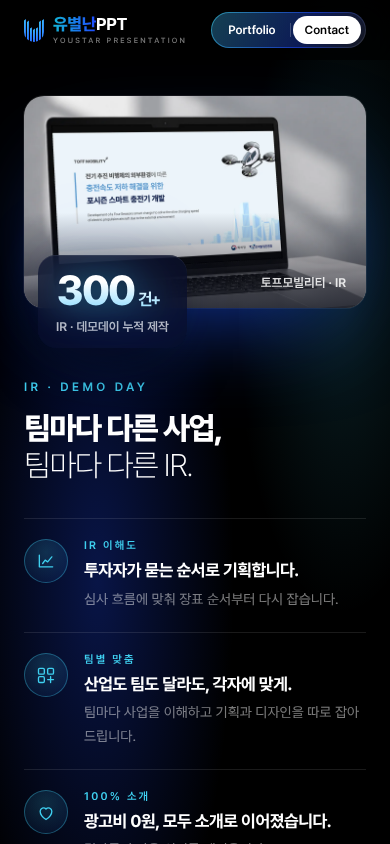
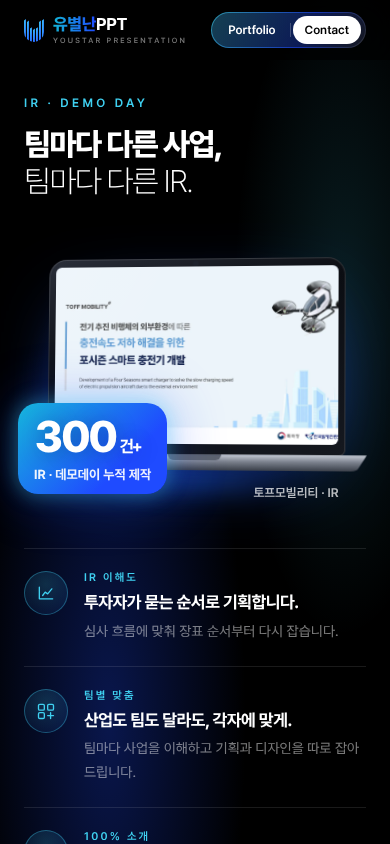
v2 IR: heading top-left, frameless CSS laptop with IR slides, bold gradient 300+ badge
- 제목을 왼쪽 위로, 세 줄은 오른쪽에서 노트북 높이에 맞춰 세로 가운데
- 배경 있는 노트북 사진 대신 코드로 만든 배경 없는 노트북: 살짝 기울어진 채 떠 있고, 마우스 올리면 정면으로, 화면 속 IR 5종이 바뀜
- 300건+ 배지: 청록→파랑 채움 + 흰 숫자 + 숨 쉬는 네온, 노트북 왼쪽 아래

Claude-Session: https://claude.ai/code/session_01NURhbB6Mq8R8WnaczfYj5a

diff --git a/redesign/v2/index.html b/redesign/v2/index.html
@@ -188,25 +188,36 @@ a{color:inherit;text-decoration:none}
 @keyframes statsbeam{50%{--bx:70%}}
 @media (prefers-reduced-motion:reduce){.neon-btn,.neon-txt,.stats::before{animation:none}}
 
-/* 다섯 번째: IR · 데모데이 — 왼쪽 노트북 목업(장표가 바뀜) + 300건+ 배지, 오른쪽 짧은 세 줄, 아래 이력 띠 */
+/* 다섯 번째: IR · 데모데이 — 왼쪽 제목 + 배경 없는 노트북(장표가 바뀜) + 300건+ 배지, 오른쪽 세 줄, 아래 이력 띠 */
 .irx{position:relative;padding:140px 0 120px;isolation:isolate;overflow-x:clip}
-.irx::before{content:"";position:absolute;inset:0;z-index:-1;background:radial-gradient(ellipse 50% 55% at 25% 50%,rgba(31,75,255,.28),transparent 70%),radial-gradient(ellipse 40% 40% at 88% 25%,rgba(63,208,240,.14),transparent 70%)}
-.irx .wrap{display:grid;grid-template-columns:minmax(0,1.15fr) minmax(0,1fr);gap:72px;align-items:center}
-.lap{position:relative}
-.lap__frame{position:relative;aspect-ratio:1400/868;border-radius:20px;overflow:hidden;box-shadow:0 40px 100px -40px rgba(31,90,255,.7),0 0 0 1px rgba(255,255,255,.08)}
-.lap__frame img{position:absolute;inset:0;width:100%;height:100%;object-fit:cover;opacity:0;transform:scale(1.03);transition:opacity 1.2s var(--ease),transform 6s linear}
-.lap__frame img.on{opacity:1;transform:scale(1)}
-.lap__frame::after{content:"";position:absolute;inset:0;background:linear-gradient(180deg,transparent 55%,rgba(3,6,18,.75));pointer-events:none}
-.lap__name{position:absolute;right:20px;bottom:18px;z-index:2;font-size:12.5px;font-weight:600;color:rgba(255,255,255,.85);transition:opacity .4s}
-.badge300{position:absolute;left:-28px;bottom:-34px;z-index:3;padding:20px 26px 18px;border-radius:18px;background:rgba(8,14,40,.72);backdrop-filter:blur(16px);-webkit-backdrop-filter:blur(16px);box-shadow:0 24px 60px -20px rgba(0,0,0,.9),inset 0 1px 0 rgba(255,255,255,.08)}
-.badge300 b{display:block;font-size:56px;font-weight:800;letter-spacing:-.05em;line-height:1;background:linear-gradient(180deg,#fff 30%,#8fdcff);-webkit-background-clip:text;background-clip:text;color:transparent;font-variant-numeric:tabular-nums}
-.badge300 b em{font-style:normal;font-size:.4em;font-weight:700;margin-left:4px}
-.badge300 span{display:block;margin-top:8px;font-size:12.5px;font-weight:600;color:var(--ink-2)}
+.irx::before{content:"";position:absolute;inset:0;z-index:-1;background:radial-gradient(ellipse 50% 55% at 28% 60%,rgba(31,75,255,.3),transparent 70%),radial-gradient(ellipse 40% 40% at 88% 25%,rgba(63,208,240,.14),transparent 70%)}
+.irx .wrap{display:grid;grid-template-columns:minmax(0,1.2fr) minmax(0,1fr);grid-template-areas:"head ." "dev pts";column-gap:80px;row-gap:56px}
+.irx__head{grid-area:head}
 .irx small.k{display:block;font-size:12px;font-weight:600;letter-spacing:.28em;color:#3fd0f0;text-transform:uppercase}
 .irx h2{margin:16px 0 0;font-size:clamp(30px,3.2vw,46px);line-height:1.18;letter-spacing:-.045em}
 .irx h2 b{font-weight:800}.irx h2 span{font-weight:250}
-.pts{margin:34px 0 0;padding:0;list-style:none;border-top:1px solid rgba(255,255,255,.1)}
-.pt{display:grid;grid-template-columns:44px 1fr;gap:16px;align-items:start;padding:20px 0;border-bottom:1px solid rgba(255,255,255,.1);opacity:0;transform:translateY(14px);transition:opacity .9s var(--ease),transform .9s var(--ease)}
+/* 노트북: 배경 없이, 살짝 기울어진 채 떠 있다 */
+.dev{grid-area:dev;position:relative;perspective:1600px;padding:10px 0 30px}
+.dev__body{position:relative;transform:rotateY(-12deg) rotateX(4deg);transform-style:preserve-3d;transition:transform 1s var(--ease)}
+.dev:hover .dev__body{transform:rotateY(-6deg) rotateX(2deg)}
+.dev__lid{position:relative;margin:0 6%;padding:2.2% 2.2% 3.2%;border-radius:18px 18px 6px 6px;background:linear-gradient(160deg,#2a2f3a,#0b0d12 40%,#15181f);box-shadow:inset 0 0 0 1px rgba(255,255,255,.14),0 30px 80px -30px rgba(31,90,255,.8)}
+.dev__lid::before{content:"";position:absolute;left:50%;top:1%;width:6px;height:6px;margin-left:-3px;border-radius:50%;background:#1d222c}
+.dev__scr{position:relative;aspect-ratio:16/10;border-radius:6px;overflow:hidden;background:#0b1230}
+.dev__scr img{position:absolute;inset:0;width:100%;height:100%;object-fit:cover;opacity:0;transform:scale(1.02);transition:opacity 1.1s var(--ease),transform 5s linear}
+.dev__scr img.on{opacity:1;transform:none}
+.dev__scr::after{content:"";position:absolute;inset:0;background:linear-gradient(115deg,rgba(255,255,255,.12),transparent 38%);pointer-events:none}
+.dev__base{position:relative;height:16px;margin-top:-1px;border-radius:0 0 18px 18px;background:linear-gradient(180deg,#c9ced8,#7b818d 45%,#3a3f49);clip-path:polygon(0 0,100% 0,97% 100%,3% 100%);box-shadow:0 20px 40px -10px rgba(0,0,0,.9)}
+.dev__base::before{content:"";position:absolute;left:50%;top:0;width:16%;height:6px;margin-left:-8%;border-radius:0 0 8px 8px;background:#5d636e}
+.dev__glow{position:absolute;left:8%;right:8%;bottom:0;height:40px;background:radial-gradient(ellipse 50% 50% at 50% 50%,rgba(31,110,255,.55),transparent 70%);filter:blur(12px);z-index:-1}
+.dev__name{position:absolute;right:8%;bottom:0;font-size:12.5px;font-weight:600;color:var(--ink-2)}
+.badge300{position:absolute;left:-30px;bottom:10px;z-index:3;padding:20px 26px 18px;border-radius:20px;background:linear-gradient(135deg,#16b6dc,#1f4bff 70%);box-shadow:0 24px 60px -16px rgba(31,90,255,.9),inset 0 1px 0 rgba(255,255,255,.35)}
+.badge300 b{display:block;font-size:64px;font-weight:800;letter-spacing:-.05em;line-height:1;color:#fff;font-variant-numeric:tabular-nums;text-shadow:0 2px 20px rgba(0,20,80,.35)}
+.badge300 b em{font-style:normal;font-size:.38em;font-weight:700;margin-left:4px}
+.badge300 span{display:block;margin-top:8px;font-size:13px;font-weight:700;color:rgba(255,255,255,.92)}
+.badge300.neon-btn{animation:neonbtn 5.5s ease-in-out infinite}
+.irx__right{grid-area:pts;align-self:center}
+.pts{margin:0;padding:0;list-style:none;border-top:1px solid rgba(255,255,255,.1)}
+.pt{display:grid;grid-template-columns:44px 1fr;gap:16px;align-items:start;padding:22px 0;border-bottom:1px solid rgba(255,255,255,.1);opacity:0;transform:translateX(30px);transition:opacity .9s var(--ease),transform .9s var(--ease)}
 .pts.is-in .pt{opacity:1;transform:none}
 .pts.is-in .pt:nth-child(2){transition-delay:.18s}.pts.is-in .pt:nth-child(3){transition-delay:.36s}
 .pt__ic{width:44px;height:44px;border-radius:50%;display:grid;place-items:center;color:#3fd0f0;background:radial-gradient(circle at 50% 30%,rgba(63,208,240,.18),rgba(31,75,255,.06));box-shadow:inset 0 0 0 1px rgba(63,208,240,.35)}
@@ -215,7 +226,6 @@ a{color:inherit;text-decoration:none}
 .pt h3{margin:6px 0 0;font-size:17px;font-weight:700;letter-spacing:-.025em;line-height:1.45}
 .pt p{margin:5px 0 0;font-size:14px;line-height:1.7;color:var(--ink-3)}
 .irx .gbtn{margin-top:30px;height:48px;font-size:14px}
-/* 이력 띠: 둥근 테두리 없이 위아래 가는 선만 */
 .hstrip{position:relative;margin-top:96px;padding:18px 0;border-top:1px solid rgba(255,255,255,.08);border-bottom:1px solid rgba(255,255,255,.08);overflow:hidden;-webkit-mask:linear-gradient(90deg,transparent,#000 8%,#000 92%,transparent);mask:linear-gradient(90deg,transparent,#000 8%,#000 92%,transparent)}
 .hstrip__row{display:flex;width:max-content;animation:wallmove 60s linear infinite}
 .hstrip:hover .hstrip__row{animation-play-state:paused}
@@ -225,10 +235,11 @@ a{color:inherit;text-decoration:none}
 .hstrip__row span.cap{color:#fff;font-size:11.5px;font-weight:700;letter-spacing:.24em}
 @media (max-width:860px){
   .irx{padding:96px 0 80px}
-  .irx .wrap{grid-template-columns:1fr;gap:72px}
-  .badge300{left:14px;bottom:-40px;padding:14px 18px}
-  .badge300 b{font-size:42px}
+  .irx .wrap{grid-template-columns:1fr;grid-template-areas:"head" "dev" "pts";row-gap:48px}
   .irx h2{font-size:clamp(28px,8vw,36px)}
+  .dev__body{transform:rotateY(-8deg) rotateX(3deg)}
+  .badge300{left:-6px;bottom:6px;padding:12px 16px}
+  .badge300 b{font-size:44px}
   .irx .gbtn{width:100%}
   .hstrip{margin-top:64px}
 }
@@ -326,19 +337,23 @@ a{color:inherit;text-decoration:none}
 </section>
 <section class="irx" id="ir">
   <div class="wrap">
-    <div class="lap">
-      <div class="lap__frame" id="lap">
-        <img class="on" src="assets/slides/lap-toff.webp" alt="토프모빌리티 IR 목업" data-n="토프모빌리티 · IR">
-        <img src="assets/slides/lap-refilly.webp" alt="리필리 IR 목업" data-n="리필리 · IR" loading="lazy">
-        <img src="assets/slides/lap-geogrid.webp" alt="지오그리드 IR 목업" data-n="지오그리드 · IR" loading="lazy">
-        <img src="assets/slides/lap-drbelab.webp" alt="닥터비랩 IR 목업" data-n="닥터비랩 · IR" loading="lazy">
-        <span class="lap__name" id="lapName">토프모빌리티 · IR</span>
+    <div class="irx__head"><small class="k">IR · Demo Day</small><h2><b>팀마다 다른 사업,</b><br><span>팀마다 다른 IR.</span></h2></div>
+    <div class="dev" id="lap">
+      <div class="badge300 neon-btn"><b id="n300" data-to="300">300<em>건+</em></b><span>IR · 데모데이 누적 제작</span></div>
+      <div class="dev__body">
+        <div class="dev__lid"><div class="dev__scr">
+          <img class="on" src="assets/slides/toff.webp" alt="토프모빌리티 IR" data-n="토프모빌리티 · IR">
+          <img src="assets/slides/refilly.webp" alt="리필리 IR" data-n="리필리 · IR" loading="lazy">
+          <img src="assets/slides/geogrid.webp" alt="지오그리드 IR" data-n="지오그리드 · IR" loading="lazy">
+          <img src="assets/slides/spne.webp" alt="에스피앤이 IR" data-n="에스피앤이 · IR" loading="lazy">
+          <img src="assets/slides/drbelab.webp" alt="닥터비랩 IR" data-n="닥터비랩 · IR" loading="lazy">
+        </div></div>
+        <div class="dev__base"></div>
       </div>
-      <div class="badge300"><b class="neon-txt" id="n300" data-to="300">300<em>건+</em></b><span>IR · 데모데이 누적 제작</span></div>
+      <div class="dev__glow"></div>
+      <span class="dev__name" id="lapName">토프모빌리티 · IR</span>
     </div>
-    <div>
-      <small class="k">IR · Demo Day</small>
-      <h2><b>팀마다 다른 사업,</b><br><span>팀마다 다른 IR.</span></h2>
+    <div class="irx__right">
       <ol class="pts" id="pts">
         <li class="pt"><span class="pt__ic"><svg viewBox="0 0 24 24" fill="none" stroke="currentColor" stroke-width="1.6" stroke-linecap="round" stroke-linejoin="round"><path d="M4 19V5M4 19h16M8 15l3-4 3 2 5-6"/></svg></span><div><i class="t">IR 이해도</i><h3>투자자가 묻는 순서로 기획합니다.</h3><p>심사 흐름에 맞춰 장표 순서부터 다시 잡습니다.</p></div></li>
         <li class="pt"><span class="pt__ic"><svg viewBox="0 0 24 24" fill="none" stroke="currentColor" stroke-width="1.6" stroke-linecap="round" stroke-linejoin="round"><rect x="3" y="4" width="7" height="7" rx="1.5"/><rect x="14" y="4" width="7" height="7" rx="1.5"/><rect x="3" y="14" width="7" height="7" rx="1.5"/><path d="M14 17.5h7M17.5 14v7"/></svg></span><div><i class="t">팀별 맞춤</i><h3>산업도 팀도 달라도, 각자에 맞게.</h3><p>팀마다 사업을 이해하고 기획과 디자인을 따로 잡아 드립니다.</p></div></li>
@@ -590,7 +605,7 @@ a{color:inherit;text-decoration:none}
 (() => {
   const pts = document.getElementById("pts"), lap = document.getElementById("lap"); if (!pts || !lap) return;
   const reduce = matchMedia("(prefers-reduced-motion: reduce)").matches;
-  const imgs = [...lap.querySelectorAll("img")], nm = document.getElementById("lapName"), n300 = document.getElementById("n300");
+  const imgs = [...lap.querySelectorAll(".dev__scr img")], nm = document.getElementById("lapName"), n300 = document.getElementById("n300");
   let i = 0, timer = 0, counted = false;
   const next = () => { imgs[i].classList.remove("on"); i = (i + 1) % imgs.length; imgs[i].classList.add("on"); nm.textContent = imgs[i].dataset.n; };
   new IntersectionObserver(([e]) => {
